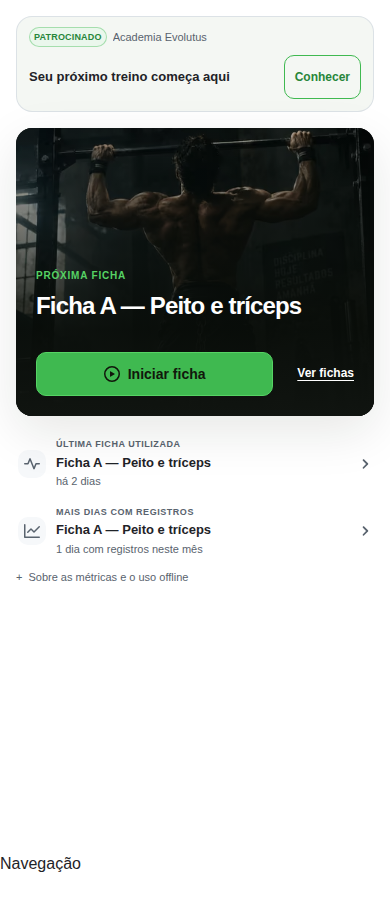
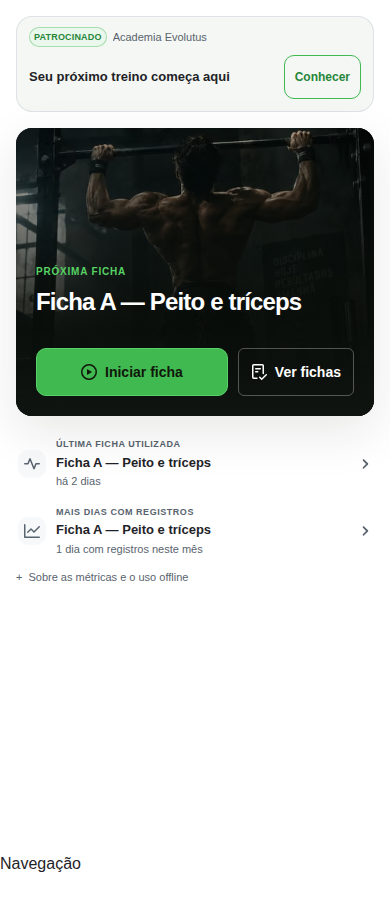
fix: reuse the desktop secondary button on mobile

Changed region(s): [[0.0923, 0.28, 0.9231, 0.4667]]

diff --git a/src/styles/app.css b/src/styles/app.css
@@ -5472,10 +5472,11 @@ button.activity-day:focus-visible { z-index: 1; outline: 2px solid var(--fgColor
   .workout-hero-meta { gap: 0; }
   .workout-hero-meta span { gap: 5px; }
   .workout-hero-meta svg { flex-shrink: 0; }
-  .workout-hero-actions { width: 100%; align-items: center; flex-wrap: nowrap; gap: 16px; margin: 22px 0 0; padding: 0; }
-  .start-workout-button[data-variant='primary'] { min-height: 44px; padding-inline: 12px; font-size: 14px; border-radius: var(--fitness-radius-sm); }
-  .workout-hero-actions > a:not(.start-workout-button) { min-height: 44px; padding-inline: 0; border: 0; border-radius: 0; background: none; box-shadow: none; font-size: 12px; text-decoration: underline; text-underline-offset: 3px; }
-  .workout-hero-actions > a:not(.start-workout-button) svg { display: none; }
+  .workout-hero-actions { width: 100%; align-items: center; justify-content: flex-start; flex-wrap: wrap; gap: 10px; margin: 22px 0 0; padding: 0; }
+  .workout-hero-actions .start-workout-button { flex: 1 1 auto; }
+  .start-workout-button[data-variant='primary'] { min-height: 48px; padding-inline: 12px; font-size: 14px; border-radius: var(--fitness-radius-sm); }
+  /* Same secondary Button as desktop; only spacing adapts to the smaller viewport. */
+  .workout-hero-actions > a:not(.start-workout-button) { flex: 0 0 auto; padding-inline: 12px; }
   .sheet-activity-summary { width: 100%; padding: 14px 0 0; color: var(--fgColor-default); }
   .sheet-activity-summary .sheet-insights-row { gap: 0; max-width: none; padding: 0; border: 0; }
   .sheet-activity-summary .sheet-insight-card { flex: 1 1 100%; min-height: 48px; padding: 8px 2px; border: 0; border-radius: 0; background: none; }

diff --git a/docs/HOME_V3_REVIEW.md b/docs/HOME_V3_REVIEW.md
@@ -8,7 +8,7 @@ No mobile, a fotografia cobre todo o hero por posicionamento absoluto, `inset: 0
 
 O problema anterior vinha do `contain` herdado das fotos verticais e da altura fotográfica depender de um contêiner que incluía o `details`. Indicadores e aviso agora têm contêineres próprios. Abrir o aviso pode ampliar a página, mas não altera as dimensões, o enquadramento ou o elemento da fotografia. O desktop mantém sua composição; o aviso sai da fotografia para corrigir o mesmo acoplamento estrutural.
 
-A identificação mobile é “PRÓXIMA FICHA”, com “· HOJE” somente quando a recomendação real é para hoje e ainda não tem atividade naquele dia. “Iniciar ficha” é a ação principal; “Ver fichas” é um link secundário com área de toque de 44px. Os indicadores usam tokens do tema fora da área fotográfica, sem cartões concorrendo com o destaque.
+A identificação mobile é “PRÓXIMA FICHA”, com “· HOJE” somente quando a recomendação real é para hoje e ainda não tem atividade naquele dia. “Iniciar ficha” é a ação principal; “Ver fichas” reutiliza o mesmo Button secundário do desktop, com ícone, texto, borda, contraste e área de toque de 48px. Somente o padding e o espaçamento se adaptam ao mobile: os botões ficam lado a lado quando cabem e se organizam em linhas alinhadas à esquerda nas telas menores, sem reduzir a leitura ou criar uma aparência alternativa. Os indicadores usam tokens do tema fora da área fotográfica, sem cartões concorrendo com o destaque.
 
 Somente o banner com placement `home_banner` recebe a composição mobile compacta: selo e anunciante, mensagem e CTA. Os hooks, timers, rotação, identificação publicitária, rolagem acessível da mensagem e métricas permanecem intactos. Comunidades e desktop mantêm o layout anterior. O cabeçalho de saudação da Home ganha tipografia/espaçamento compactos, sem alterar o shell de navegação.
 
@@ -35,7 +35,7 @@ Outras evidências: [mulher, 390px, dark](home-v3/female-390-dark.png), [aviso a
 
 ## Validação
 
-`node scripts/home-v2-browser-smoke.mjs` verifica 120 combinações de fotografia (três perfis × quatro dias × cinco larguras × dois temas), com o aviso fechado, aberto e recolhido novamente. Compara dimensões do hero, fotografia e gradiente; verifica identidade da imagem, ausência de downloads extras, fallback, rotação e retorno após suspensão. Inclui nomes longos, ausência de fichas/histórico, CTA e selo do anúncio, largura da página e áreas de toque.
+`node scripts/home-v2-browser-smoke.mjs` verifica 120 combinações de fotografia (três perfis × quatro dias × cinco larguras × dois temas), com o aviso fechado, aberto e recolhido novamente. Compara dimensões do hero, fotografia e gradiente; verifica identidade da imagem, ausência de downloads extras, fallback, rotação e retorno após suspensão. Inclui nomes longos, ausência de fichas/histórico, CTA e selo do anúncio, largura da página e áreas de toque. Também confirma que o botão secundário mantém o ícone visível, o contorno sólido, o contraste do desktop e permanece dentro da linha de ações em todos os tamanhos.
 
 A execução local final passou nas dez combinações de viewport/tema, 120 fotos, sem erros. Os cinco arquivos de testes da Home e lint dos arquivos JS alterados passaram. As verificações pesadas completas (npm test, lint, build, segurança, pgTAP e funções) são executadas pelo CI oficial do PR. A simulação de CPU 4× lenta é obrigatória no runner isolado de CI; localmente não se introduz essa carga artificial para manter a prévia do Codespace responsiva.
 
